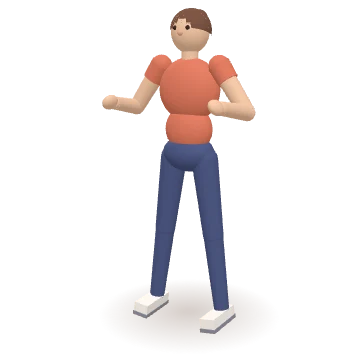
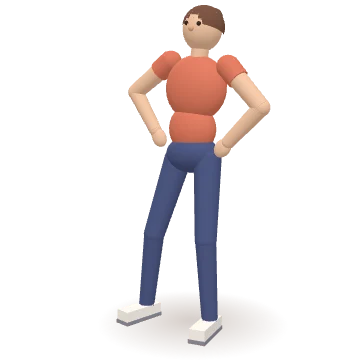
Sentadilla con press de pie, movilidad más clara y rutinas completas sin ejercicios demasiado suaves
- Sentadilla con press: movimiento continuo y fotos de pie (sin el press sentado)
- Círculos de cadera: la cadera dibuja un círculo con los pies quietos y las manos en la cintura
- Círculos de brazos y de hombros más amplios; giro de tronco más visible
- Cuerpo completo: fuera equilibrio a una pierna, pies en tándem, rodilla arriba con silla y rutina sentada
- Core por defecto: plancha + elevación de piernas (o plancha con rodillas en las suaves)

Claude-Session: https://claude.ai/code/session_01VezrFMdeigC6m4YvnxJoxX

Changed region(s): [[0.275, 0.0, 0.7639, 0.9778], [0.5194, 0.3972, 0.55, 0.4278]]

diff --git a/js/anims.js b/js/anims.js
@@ -45,6 +45,7 @@
   const SIDE = { rot: [0, 0, 90] };
   const BENT_OVER = { rot: [50, 0, 0], hipL: [62, 6, 0], hipR: [62, 6, 0], kneeL: 22, kneeR: 22, ankleL: -10, ankleR: -10, neck: [-25, 0, 0] };
   const MAT = (rot = 0, len) => ({ type: "mat", rot, len });
+  const HANDS_HIPS = { shL: [0, 50, -90], shR: [0, 50, -90], elL: 90, elR: 90 };   // manos en la cintura
   const PLANK_RX = 84, PLANK_AN = 0, HIGH_RX = 71, HIGH_AN = 0;   // inclinación del cuerpo en las planchas
   // Apoyos: qué partes tocan el suelo en cada postura
   const SUP_GROUND = ["back", "sacrum", "head", "shoulderL", "shoulderR"];   // tumbada boca arriba
@@ -373,13 +374,13 @@
     },
     /* ----- Ejercicios de la rutina habitual ----- */
     "squat-press": {
-      cam: 35, props: [{ type: "dumbbells", level: "z" }],
+      cam: 45, props: [{ type: "dumbbells", level: "z" }],
       frames: [
         { shL: [25, 40, 0], shR: [25, 40, 0], elL: 135, elR: 135 },
-        { hipL: [84, 12, 8], hipR: [84, 12, 8], kneeL: 92, kneeR: 92, ankleL: -20, ankleR: -20, spine: [26, 0, 0], shL: [0, 40, 0], shR: [0, 40, 0], elL: 135, elR: 135 },
+        { hipL: [84, 12, 8], hipR: [84, 12, 8], kneeL: 92, kneeR: 92, ankleL: -20, ankleR: -20, spine: [22, 0, 0], shL: [25, 40, 0], shR: [25, 40, 0], elL: 135, elR: 135 },
         { shL: [170, -6, 0], shR: [170, -6, 0], elL: 6, elR: 6 },
       ],
-      seq: [0, 1, 0, 2], move: 1.0, hold: 0.3,
+      seq: [0, 1, 2], move: 1.1, hold: 0.35,
     },
     "rdl-row": {
       cam: 40, props: [{ type: "dumbbells", level: "x" }],
@@ -533,34 +534,47 @@
       seq: [0, 1, 0, 2], move: 0.45, hold: 0,
     },
     "shoulder-circles": {
-      cam: 70,
+      cam: 65,
       frames: [
-        { shPL: [0, 0.03], shPR: [0, 0.03] },
-        { shPL: [0.045, 0], shPR: [0.045, 0] },
-        { shPL: [0, -0.035], shPR: [0, -0.035] },
-        { shPL: [-0.015, 0], shPR: [-0.015, 0] },
+        { shPL: [0.025, 0.045], shPR: [0.025, 0.045], shL: [0, 10, 0], shR: [0, 10, 0] },
+        { shPL: [0.046, 0.032], shPR: [0.046, 0.032], shL: [0, 10, 0], shR: [0, 10, 0] },
+        { shPL: [0.055, 0.000], shPR: [0.055, 0.000], shL: [0, 10, 0], shR: [0, 10, 0] },
+        { shPL: [0.046, -0.032], shPR: [0.046, -0.032], shL: [0, 10, 0], shR: [0, 10, 0] },
+        { shPL: [0.025, -0.045], shPR: [0.025, -0.045], shL: [0, 10, 0], shR: [0, 10, 0] },
+        { shPL: [0.004, -0.032], shPR: [0.004, -0.032], shL: [0, 10, 0], shR: [0, 10, 0] },
+        { shPL: [-0.005, -0.000], shPR: [-0.005, -0.000], shL: [0, 10, 0], shR: [0, 10, 0] },
+        { shPL: [0.004, 0.032], shPR: [0.004, 0.032], shL: [0, 10, 0], shR: [0, 10, 0] },
       ],
-      seq: [0, 1, 2, 3], move: 0.5, hold: 0,
+      seq: [0, 1, 2, 3, 4, 5, 6, 7], move: 0.3, hold: 0,
     },
     "arm-circles": {
-      cam: 20,
+      cam: 40, pitch: 6,
       frames: [
-        { shL: [0, 90, 0], shR: [0, 90, 0], elL: 0, elR: 0 },
-        { shL: [15, 100, 0], shR: [15, 100, 0], elL: 0, elR: 0 },
-        { shL: [0, 110, 0], shR: [0, 110, 0], elL: 0, elR: 0 },
-        { shL: [-15, 100, 0], shR: [-15, 100, 0], elL: 0, elR: 0 },
+        { shL: [0, 112, 0], shR: [0, 112, 0], elL: 0, elR: 0 },
+        { shL: [16, 106, 0], shR: [16, 106, 0], elL: 0, elR: 0 },
+        { shL: [22, 90, 0], shR: [22, 90, 0], elL: 0, elR: 0 },
+        { shL: [16, 74, 0], shR: [16, 74, 0], elL: 0, elR: 0 },
+        { shL: [0, 68, 0], shR: [0, 68, 0], elL: 0, elR: 0 },
+        { shL: [-16, 74, 0], shR: [-16, 74, 0], elL: 0, elR: 0 },
+        { shL: [-22, 90, 0], shR: [-22, 90, 0], elL: 0, elR: 0 },
+        { shL: [-16, 106, 0], shR: [-16, 106, 0], elL: 0, elR: 0 },
       ],
-      seq: [0, 1, 2, 3], move: 0.35, hold: 0,
+      seq: [0, 1, 2, 3, 4, 5, 6, 7], move: 0.22, hold: 0,
     },
     "hip-circles": {
-      cam: 30,
+      cam: 35, pitch: 8, anchor: "pelvis", ikFeet: { pole: [0.2, 0.1, 1], from: 8 },
       frames: [
-        { rot: [0, 0, 8], spine: [0, -10, 0], hipL: [0, 4, 0], hipR: [0, 12, 0], shL: [0, 35, 0], shR: [0, 35, 0], elL: 100, elR: 100 },
-        { rot: [8, 0, 0], spine: [-10, 0, 0], hipL: [8, 8, 0], hipR: [8, 8, 0], shL: [0, 35, 0], shR: [0, 35, 0], elL: 100, elR: 100 },
-        { rot: [0, 0, -8], spine: [0, 10, 0], hipL: [0, 12, 0], hipR: [0, 4, 0], shL: [0, 35, 0], shR: [0, 35, 0], elL: 100, elR: 100 },
-        { rot: [-8, 0, 0], spine: [10, 0, 0], hipL: [-8, 8, 0], hipR: [-8, 8, 0], shL: [0, 35, 0], shR: [0, 35, 0], elL: 100, elR: 100 },
+        { pos: [0.070, 1, 0.000], rot: [0.0, 0, 7.0], spine: [-0.0, -11.0, 0], chest: [-0.0, -4.0, 0], hipL: [22, 8, 0], hipR: [22, 8, 0], kneeL: 28, kneeR: 28, ankleL: -12, ankleR: -12, ...HANDS_HIPS },
+        { pos: [0.049, 1, 0.035], rot: [4.2, 0, 4.9], spine: [-5.7, -7.8, 0], chest: [-2.1, -2.8, 0], hipL: [22, 8, 0], hipR: [22, 8, 0], kneeL: 28, kneeR: 28, ankleL: -12, ankleR: -12, ...HANDS_HIPS },
+        { pos: [0.000, 1, 0.050], rot: [6.0, 0, 0.0], spine: [-8.0, -0.0, 0], chest: [-3.0, -0.0, 0], hipL: [22, 8, 0], hipR: [22, 8, 0], kneeL: 28, kneeR: 28, ankleL: -12, ankleR: -12, ...HANDS_HIPS },
+        { pos: [-0.049, 1, 0.035], rot: [4.2, 0, -4.9], spine: [-5.7, 7.8, 0], chest: [-2.1, 2.8, 0], hipL: [22, 8, 0], hipR: [22, 8, 0], kneeL: 28, kneeR: 28, ankleL: -12, ankleR: -12, ...HANDS_HIPS },
+        { pos: [-0.070, 1, 0.000], rot: [0.0, 0, -7.0], spine: [-0.0, 11.0, 0], chest: [-0.0, 4.0, 0], hipL: [22, 8, 0], hipR: [22, 8, 0], kneeL: 28, kneeR: 28, ankleL: -12, ankleR: -12, ...HANDS_HIPS },
+        { pos: [-0.049, 1, -0.035], rot: [-4.2, 0, -4.9], spine: [5.7, 7.8, 0], chest: [2.1, 2.8, 0], hipL: [22, 8, 0], hipR: [22, 8, 0], kneeL: 28, kneeR: 28, ankleL: -12, ankleR: -12, ...HANDS_HIPS },
+        { pos: [-0.000, 1, -0.050], rot: [-6.0, 0, -0.0], spine: [8.0, 0.0, 0], chest: [3.0, 0.0, 0], hipL: [22, 8, 0], hipR: [22, 8, 0], kneeL: 28, kneeR: 28, ankleL: -12, ankleR: -12, ...HANDS_HIPS },
+        { pos: [0.049, 1, -0.035], rot: [-4.2, 0, 4.9], spine: [5.7, -7.8, 0], chest: [2.1, -2.8, 0], hipL: [22, 8, 0], hipR: [22, 8, 0], kneeL: 28, kneeR: 28, ankleL: -12, ankleR: -12, ...HANDS_HIPS },
+        { hipL: [22, 8, 0], hipR: [22, 8, 0], kneeL: 28, kneeR: 28, ankleL: -12, ankleR: -12, ...HANDS_HIPS },
       ],
-      seq: [0, 1, 2, 3], move: 0.6, hold: 0,
+      seq: [0, 1, 2, 3, 4, 5, 6, 7], move: 0.42, hold: 0,
     },
     "cat-cow": {
       ...LYING, anchor: "knees", ground: KNEES_GROUND, cam: 85, ik: { ...HANDS_FLOOR, pole: [0.2, 0, 1] }, props: [MAT()],
@@ -571,11 +585,11 @@
       move: 1.6, hold: 0.6,
     },
     "seated-twist": {
-      ...SEAT_OPTS, cam: 15,
+      ...SEAT_OPTS, cam: 25,
       frames: [
         P(SEATED, { shL: [28, 0, 0, -55], shR: [28, 0, 0, -55], elL: 128, elR: 128 }),
-        P(SEATED, { spine: [0, 0, 30], chest: [0, 0, 18], neck: [0, 0, 15], shL: [28, 0, 0, -55], shR: [28, 0, 0, -55], elL: 128, elR: 128 }),
-        P(SEATED, { spine: [0, 0, -30], chest: [0, 0, -18], neck: [0, 0, -15], shL: [28, 0, 0, -55], shR: [28, 0, 0, -55], elL: 128, elR: 128 }),
+        P(SEATED, { spine: [0, 0, 34], chest: [0, 0, 20], neck: [0, 0, 18], shL: [28, 0, 0, -55], shR: [28, 0, 0, -55], elL: 128, elR: 128 }),
+        P(SEATED, { spine: [0, 0, -34], chest: [0, 0, -20], neck: [0, 0, -18], shL: [28, 0, 0, -55], shR: [28, 0, 0, -55], elL: 128, elR: 128 }),
       ],
       seq: [0, 1, 0, 2], hold: 0.6,
     },

diff --git a/js/data.js b/js/data.js
@@ -1078,7 +1078,7 @@ const PHOTOS = new Set(["squat", "goblet-squat", "sumo-squat", "split-squat", "g
    o como ["id", series, repeticiones-o-segundos].                         */
 /* Fotos en secuencia (ejercicios combinados): texto de cada foto. Por defecto: inicio y final. */
 const PHOTO_SEQ = {
-  "squat-press": ["1 · De pie", "2 · Baja en sentadilla", "3 · Mancuernas a los hombros", "4 · Empuja hacia arriba"],
+  "squat-press": ["1 · Mancuernas en los hombros", "2 · Baja en sentadilla", "3 · Sube y empuja hacia arriba"],
   "rdl-row": ["1 · De pie", "2 · Baja con la espalda recta", "3 · Sube y quédate de pie", "4 · Sube las mancuernas al pecho"],
   "reverse-lunge-curl": ["1 · De pie", "2 · Paso atrás y baja", "3 · Vuelve a juntar los pies", "4 · Curl de bíceps"],
   "plank": ["Cuerpo recto, sobre antebrazos y puntas"],
@@ -1116,10 +1116,10 @@ const ROUTINES = [
     items: ["goblet-squat", "bent-row", "floor-press", "db-shoulder-press", "dead-bug"] },
   { id: "full-3", cat: "full", level: 1, name: "Con banda elástica", desc: "Todo el cuerpo solo con la banda.",
     items: ["band-abduction-seated", "band-row", "band-chest-press", "band-shoulder-press", "band-curl"] },
-  { id: "full-4", cat: "full", level: 1, name: "Todo sentada", desc: "En la silla, sin bajar al suelo.", mov: ["shoulder-circles", "seated-twist", "ankle-circles"],
-    items: ["sit-stand", "band-pulldown", "db-shoulder-press", "seated-curl", "seated-march"] },
-  { id: "full-5", cat: "full", level: 1, name: "Fuerza y equilibrio", desc: "Combina fuerza con ejercicios anti-caídas.",
-    items: ["squat", "single-leg", "wall-pushup", "pull-apart", "knee-lift-hold"] },
+  { id: "full-4", cat: "full", level: 2, name: "De pie con mancuernas", desc: "Piernas, espalda, hombros y brazos sin tumbarse hasta el core.",
+    items: ["goblet-squat", "db-row", "reverse-lunge-curl", "lateral-raise", "hammer-curl"] },
+  { id: "full-5", cat: "full", level: 2, name: "Piernas y tren superior", desc: "Sentadilla, zancada, flexiones en la silla y banda.",
+    items: ["squat", "split-squat", "chair-incline-pushup", "pull-apart", "glute-bridge"] },
   { id: "full-6", cat: "full", level: 3, name: "Reto completo", desc: "Para cuando las demás se queden cortas.",
     items: [["split-squat", 3, 8], ["rdl", 3, 10], ["knee-pushup", 3, 8], ["db-row", 3, 10], ["knee-plank", 3, 20]] },
   { id: "full-7", cat: "full", level: 2, name: "Completa: pesas y esterilla", desc: "Mancuernas de pie y ejercicios en el suelo.",
@@ -1130,8 +1130,8 @@ const ROUTINES = [
     items: ["sumo-squat", "band-row", "floor-fly", "standing-kickback", "bird-dog"] },
   { id: "full-10", cat: "full", level: 2, name: "Sesión larga de fin de semana", desc: "Para cuando hay tiempo y ganas.",
     items: [["squat", 3, 12], ["db-row", 3, 10], ["lateral-raise", 3, 10], ["clamshell", 3, 12], ["side-plank-knees", 3, 20]] },
-  { id: "full-11", cat: "full", level: 1, name: "Completa y tranquila", desc: "Sentada y en la esterilla, más larga pero suave.",
-    items: [["sit-stand", 3, 10], ["seated-curl", 3, 12], ["band-pulldown", 3, 12], ["glute-bridge", 3, 12], ["heel-taps", 2, 8]] },
+  { id: "full-11", cat: "full", level: 1, name: "Completa y suave", desc: "Más larga pero a ritmo tranquilo.",
+    items: [["squat", 3, 12], ["biceps-curl", 3, 12], ["band-pulldown", 3, 12], ["glute-bridge", 3, 12], ["heel-taps", 2, 8]] },
 
   /* ---- Cuerpo completo: más largas y variadas ---- */
   { id: "full-12", cat: "full", level: 2, name: "Todo con mancuernas", desc: "Siete ejercicios con pesas para trabajar todo el cuerpo.",
@@ -1142,8 +1142,8 @@ const ROUTINES = [
     items: [["split-squat", 3, 10], ["hammer-curl", 3, 12], ["goblet-squat", 3, 12], ["overhead-triceps", 3, 12], ["calf-raise", 3, 15], ["side-plank-knees", 3, 20]] },
   { id: "full-15", cat: "full", level: 2, name: "Completa en la esterilla", desc: "Casi todo tumbada o a cuatro patas, con mancuernas.",
     items: [["glute-bridge", 3, 15], ["floor-press", 3, 12], ["side-leg-raise", 3, 12], ["floor-fly", 3, 12], ["bird-dog", 3, 10], ["close-press", 3, 10], ["dead-bug", 3, 8]] },
-  { id: "full-16", cat: "full", level: 2, name: "Fuerza y equilibrio larga", desc: "Fuerza de todo el cuerpo con ejercicios de equilibrio entre medias.",
-    items: [["squat", 3, 15], ["single-leg", 3, 25], ["db-row", 3, 12], ["knee-lift-hold", 3, 8], ["db-shoulder-press", 3, 10], ["tandem-stance", 3, 25], ["rdl", 3, 12]] },
+  { id: "full-16", cat: "full", level: 2, name: "Fuerza larga de pie", desc: "Siete ejercicios de fuerza con mancuernas, casi todo de pie.",
+    items: [["squat", 3, 15], ["reverse-lunge-curl", 3, 10], ["db-row", 3, 12], ["lateral-raise", 3, 12], ["db-shoulder-press", 3, 10], ["sumo-squat", 3, 12], ["rdl", 3, 12]] },
   { id: "full-17", cat: "full", level: 3, name: "Circuito de 4 vueltas", desc: "Cuatro series de cada ejercicio. Para cuando las demás se queden cortas.",
     items: [["goblet-squat", 4, 12], ["knee-pushup", 4, 10], ["bent-row", 4, 12], ["split-squat", 4, 10], ["scaption", 4, 12], ["bird-dog", 4, 10]] },
 
@@ -1274,7 +1274,7 @@ const WARMUP = [["march", 1, 40], ["arm-circles", 1, 30], ["hip-circles", 1, 30]
 /* Plan semanal sugerido (0 = domingo … 6 = sábado): categoría del día.
    La rutina concreta va rotando cada semana.
    Basado en la OMS (2020) para mayores de 65: fuerza ≥ 2 días/semana y equilibrio ≥ 3 días/semana. */
-const WEEK_PLAN = { 1: "full", 2: "equilibrio", 3: "piernas", 4: "equilibrio", 5: "espalda", 6: "movilidad", 0: null };
+const WEEK_PLAN = { 1: "full", 2: "core", 3: "piernas", 4: "hombros", 5: "espalda", 6: "movilidad", 0: null };
 
 /* Normaliza los ejercicios de cada rutina a [id, series, cantidad] */
 /* Las rutinas de cuerpo completo van en tres bloques: movilidad → fuerza → core (2 rondas). */
@@ -1300,7 +1300,7 @@ const CORE_PAIR = { "bird-dog": "heel-taps", "dead-bug": "knee-plank", "knee-pla
       const it = r.items.map((x) => (Array.isArray(x) ? x : [x, r.level >= 2 ? 3 : 2, amt(x)]));
       const core = it.filter(([id]) => byId[id].zone === "core").slice(0, 2).map(([id, , a]) => [id, a]);
       if (core.length === 1) { const c2 = CORE_PAIR[core[0][0]]; if (c2) core.push([c2, amt(c2)]); }
-      if (!core.length) (lv === 1 ? ["wall-plank", "seated-march"] : ["knee-plank", "heel-taps"]).forEach((id) => core.push([id, amt(id)]));
+      if (!core.length) (lv === 1 ? ["knee-plank", "heel-taps"] : ["plank", "leg-raise-hold"]).forEach((id) => core.push([id, amt(id)]));
       b = { mov: r.mov || MOB_DEFAULT[lv], fuerza: it.filter(([id]) => byId[id].zone !== "core"), core };
     }
     const mov = b.mov.map((x) => (Array.isArray(x) ? [x[0], 1, x[1]] : [x, 1, amt(x)]));

diff --git a/js/figure3d.js b/js/figure3d.js
@@ -163,6 +163,7 @@
   function applyPose(body, p) {
     const j = body.j, r = body.root;
     r.position.set(p.pos[0], p.pos[1], p.pos[2]);
+    body.posOff = [p.pos[0], p.pos[2]];
     r.rotation.set(p.rot[0] * D, p.rot[1] * D, p.rot[2] * D);
     // columna: [flexión, inclinación lateral, giro]
     j.spine.rotation.set(p.spine[0] * D, p.spine[2] * D, p.spine[1] * D);
@@ -206,7 +207,9 @@
     else if (anchor === "hands") a = wp(m.handL).add(wp(m.handR)).multiplyScalar(0.5);
     else if (anchor === "pelvis") a = wp(m.pelvis);
     if (a) {
-      const at = anim.at || [0, 0];
+      const at0 = anim.at || [0, 0];
+      // con el ancla en la pelvis, pos[x,z] del fotograma desplaza la cadera (círculos de cadera)
+      const at = anchor === "pelvis" && body.posOff ? [at0[0] + body.posOff[0], at0[1] + body.posOff[1]] : at0;
       root.position.x += at[0] - a.x;
       root.position.z += at[1] - a.z;
     }

diff --git a/sw.js b/sw.js
@@ -1,6 +1,6 @@
 /* Service worker: permite usar la app sin conexión.
    Si cambias archivos, sube el número de versión. */
-const CACHE = "mi-gimnasio-v21";
+const CACHE = "mi-gimnasio-v22";
 const ASSETS = [
   "./", "index.html", "css/styles.css", "js/data.js", "js/app.js",
   "js/anims.js", "js/figure3d.js", "vendor/three.min.js",
